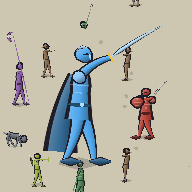
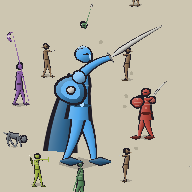
App-Symbol neu, CLAUDE.md zur Grafik des ganzen Spiels
- Symbol mit Rundschild und Parierstange in Stahl (vorher Gold)
- CLAUDE.md: Schlagbilder, Klassen, Gefallene, _zier, Vorlagen, Zeichen,
  Schriften, Riegel statt Wisch, Pfade; Schalter --wahl und --ende

Claude-Session: https://claude.ai/code/session_0131VR1KmMqgfNf9f4WYuYp4

Changed region(s): [[0.2812, 0.375, 0.4688, 0.5625], [0.5625, 0.125, 0.8438, 0.3438]]

diff --git a/CLAUDE.md b/CLAUDE.md
@@ -89,6 +89,50 @@ Sechs Regeln, die für **jede** neue Zeichnung hier gelten:
   Feinden **35 → 15 ms** je Bild. Das ist der Spielraum für alles, was danach
   an Zeichnung kam.
 
+**Was im Oktober 2026 dazukam** („die Grafik des ganzen Spiels“), und die
+Regeln, die dabei entstanden:
+
+* **Ein Schlag hat ein Bild.** `Vorfall.SCHLAG` trägt die Richtung, die das
+  Gefecht gerechnet hat, und `zug_lauf._zeichne_hiebe` zeichnet daraus Sichel
+  (Schwert), Stoß (Speer) und Bodenwelle (Hammer); Bolzen und Äxte haben
+  Form, der Flegel Kettenglieder. **Eine Rechnung, nicht zwei** — das Bild
+  nimmt `weite_von`/`bahn_von` des Gefechts.
+* **Jeder Held sieht aus, wie er kämpft** (`Streiter.held(..., klasse)`):
+  Rundschild, Kapuze mit Köcher und Armbrust, Lederkappe mit langem Speer,
+  breiter Hammerträger mit Topfhelm. Die Hand führt **nur die Startwaffe**,
+  jede Klasse mit eigener Ruhe und eigenem Schlag. Gold stand an der
+  Parierstange — Gold heißt Sold, jetzt Stahl.
+* **Tod, Treffer und Lohn sind zu sehen**: Gefallene liegen 0,7 s
+  (höchstens 40), Treffer splittern, der Held blitzt in Zinnober und der
+  Bildrand mit, Münzen glänzen, Aufsammeln und Aufstieg geben einen Ring.
+* **Effekte ziehen nie aus dem Zufall der Simulation** (`_zier` statt
+  `_rng`). Der erste Anlauf nahm denselben Generator: jedes Staubwölkchen
+  verschob den Lauf, dieselbe Saat zeigte eine andere Szene, und eine
+  Zeitmessung „vorher/nachher“ verglich zwei Gefechte — sie sah nach
+  doppelten Kosten aus.
+* **Die Nächsten voll, der Rest als Vorlage** (`VOLL_NAH` 40,
+  `Tusche.vorlage()`/`setze()`). Die Sparfassung bewegt sich nicht, wurde
+  aber in jedem Bild Eckpunkt für Eckpunkt in GDScript gebaut — bei 260
+  Figuren gut dreißig Millisekunden. Jetzt einmal je Sorte und Blick, zu
+  flachen Dreiecken ausgerollt und mit **einer** eingebauten Multiplikation
+  verschoben. Flach, weil ein Index je Vorlage um ihren Platz verschoben
+  werden müsste, und das wäre wieder eine Schleife je Eckpunkt. Wer gerade
+  aufblitzt, wird frisch gezeichnet.
+* **Menüs haben Bilder** (`Zeichen`, 27 Stück auf `Tusche`): Waffen, Züge,
+  Bauten, Ausrüstung, Herz, Münze, Schädel. Der Titel zeigt den Helden
+  zwischen den Sorten, jede Heldenkarte ihren Helden (gesperrte als
+  Schatten), der Bericht ein Bild. Schrift: **Bricolage fett** für Titel,
+  Namen und Knöpfe, **Rajdhani** für Zahlen, Fließtext Standardschrift.
+* **Ein Blatt ist ein Riegel, kein Wisch.** Der Aufstieg blendete mit
+  `wisch()` aus, und der läuft spitz aus: unter den Karten stand ein Keil.
+  Wo eine Fläche den Schirm deckt, `_riegel`; wo etwas zu den Seiten
+  auslaufen soll (Boden unter einer Szene), `wisch`.
+* **Der Boden hat Pfade**, die an Gitterlinien hängen und sich über
+  Kacheln fortsetzen, **Stoß an Stoß** (überlappende halbdurchsichtige
+  Stücke gaben an jeder Kachelgrenze einen Querstreifen), dazu Steingruppen
+  mit halber Kante, Büsche, Stümpfe, Kiesel. Halbe Kante, weil eine volle
+  eine Figur wäre.
+
 ## Godot beschaffen
 
 Godot ist hier nicht vorinstalliert und `godotengine.org` ist durch die
@@ -168,6 +212,8 @@ xvfb-run -a godot --path . --rendering-driver opengl3 --resolution 720x1600 \
 | `--lage <n>` | zeigt Titel (0), Burg (3), Beutel (4) statt des Laufs |
 | `--neu` | mit `--held`: als erster Lauf, also mit Einstiegshinweis |
 | `--saat <n>` | feste Saat — vorher und nachher zeigen dieselbe Szene |
+| `--wahl` | nach dem Vorlauf steht ein Aufstieg offen (Kartenschirm) |
+| `--ende` | nach dem Vorlauf endet der Lauf (Bericht) |
 
 **Ein Schuss spielt mit leerem Spielstand und schreibt keinen**
 (`Burg.schreibt`). Vorher las er die Funde aller Schüsse davor und
